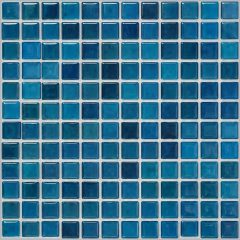
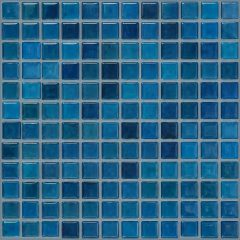
Murizelia mur3d : couleurs étalonnées sur les photos d'ambiance (rouge bordeaux plus vif)
Saturation et teinte des carreaux recalées sur les ambiances de la fiche produit,
joints des mosaïques fondus comme dans les ambiances, reflet gris du mur atténué
sur les teintes foncées.

Claude-Session: https://claude.ai/code/session_014gnWwVVzDsEiqBpqiFtKfB

Changed region(s): [[0.0, 0.0, 1.0, 1.0]]

diff --git a/murizelia-mur3d/theme/assets/mm-mur-3d.js b/murizelia-mur3d/theme/assets/mm-mur-3d.js
@@ -5,8 +5,8 @@
   que le client n'ouvre pas le visualiseur.
 */
 
-const TUILES = {"minera-carrelage-adhesif-effet-marbre-blanc-anthracite-30x30-cm":{"f":"marbre","m":[30.0,30.0],"p":[30.0,30.0],"r":0,"c":"#eae9e9"},"minera-carrelage-adhesif-effet-marbre-blanc-dore-30x30-cm":{"f":"marbre","m":[30.0,30.0],"p":[30.0,30.0],"r":0,"c":"#bcb7ad"},"minera-carrelage-adhesif-effet-marbre-bleu-dore-30x30-cm":{"f":"marbre","m":[30.0,30.0],"p":[30.0,30.0],"r":0,"c":"#a1b0b8"},"minera-carrelage-adhesif-effet-marbre-graphite-dore-30x30-cm":{"f":"marbre","m":[30.0,30.0],"p":[30.0,30.0],"r":0,"c":"#7d6f5c"},"minera-carrelage-adhesif-effet-marbre-gris-dore-30x30-cm":{"f":"marbre","m":[30.0,30.0],"p":[30.0,30.0],"r":0,"c":"#b1b1b6"},"minera-carrelage-adhesif-effet-marbre-noir-dore-30x30-cm":{"f":"marbre","m":[30.0,30.0],"p":[30.0,30.0],"r":0,"c":"#18140c"},"minera-carrelage-adhesif-effet-marbre-rose-dore-30x30-cm":{"f":"marbre","m":[30.0,30.0],"p":[30.0,30.0],"r":0,"c":"#f1d0ce"},"minera-carrelage-adhesif-effet-marbre-vert-dore-30x30-cm":{"f":"marbre","m":[30.0,30.0],"p":[30.0,30.0],"r":0,"c":"#b3c1ab"},"mosaela-carrelage-adhesif-3d-beige-sable-25-4x25-4-cm":{"f":"mosaique","m":[25.58,25.58],"p":[25.4,25.4],"r":1,"c":"#d9b77b"},"mosaela-carrelage-adhesif-3d-bleu-azur-25-4x25-4-cm":{"f":"mosaique","m":[25.75,25.75],"p":[25.4,25.4],"r":1,"c":"#3e748f"},"mosaela-carrelage-adhesif-3d-damier-bleu-saphir-25-4x25-4-cm":{"f":"damier","m":[25.51,25.51],"p":[25.4,25.4],"r":1,"c":"#8b98aa"},"mosaela-carrelage-adhesif-3d-damier-bordeaux-25-4x25-4-cm":{"f":"damier","m":[25.52,25.52],"p":[25.4,25.4],"r":1,"c":"#b1908e"},"mosaela-carrelage-adhesif-3d-damier-vert-sapin-25-4x25-4-cm":{"f":"damier","m":[25.47,25.47],"p":[25.4,25.4],"r":1,"c":"#97a197"},"mosaela-carrelage-adhesif-3d-orange-terracotta-25-4x25-4-cm":{"f":"mosaique","m":[25.57,25.57],"p":[25.4,25.4],"r":1,"c":"#c08975"},"mosaela-carrelage-adhesif-3d-rouge-bordeaux-25-4x25-4-cm":{"f":"mosaique","m":[25.5,25.5],"p":[25.4,25.4],"r":1,"c":"#63494a"},"mosaela-carrelage-adhesif-3d-vert-bouteille-25-4x25-4-cm":{"f":"mosaique","m":[25.58,25.58],"p":[25.4,25.4],"r":1,"c":"#3c523e"},"mosaela-carrelage-adhesif-3d-vert-olive-25-4x25-4-cm":{"f":"mosaique","m":[25.63,25.63],"p":[25.4,25.4],"r":1,"c":"#636c3a"},"stria-carrelage-adhesif-3d-blanc-brillant-25x25-cm":{"f":"baguettes","m":[25.12,25.12],"p":[25.0,25.0],"r":1,"c":"#e5e5e5"},"stria-carrelage-adhesif-3d-bleu-indigo-30x30-cm":{"f":"baguettes","m":[30.44,30.44],"p":[30.0,30.0],"r":1,"c":"#5c6e7d"},"stria-carrelage-adhesif-3d-rose-poudre-30x30-cm":{"f":"baguettes","m":[30.38,30.38],"p":[30.0,30.0],"r":1,"c":"#e4d1cc"},"stria-carrelage-adhesif-3d-rouge-bordeaux-30x30-cm":{"f":"baguettes","m":[30.28,30.28],"p":[30.0,30.0],"r":1,"c":"#723932"},"stria-carrelage-adhesif-3d-vert-d-eau-25x25-cm":{"f":"baguettes","m":[25.24,25.24],"p":[25.0,25.0],"r":1,"c":"#afd7d1"},"stria-carrelage-adhesif-3d-vert-emeraude-30x30-cm":{"f":"baguettes","m":[30.32,30.32],"p":[30.0,30.0],"r":1,"c":"#3b7063"},"stria-carrelage-adhesif-3d-vert-grise-30x30-cm":{"f":"baguettes","m":[30.32,30.32],"p":[30.0,30.0],"r":1,"c":"#cccbc0"},"stria-carrelage-adhesif-3d-vieux-rose-25x25-cm":{"f":"baguettes","m":[25.09,25.09],"p":[25.0,25.0],"r":1,"c":"#daa7af"}};
-const VERSION = '202610211644';
+const TUILES = {"minera-carrelage-adhesif-effet-marbre-blanc-anthracite-30x30-cm":{"f":"marbre","m":[30.0,30.0],"p":[30.0,30.0],"r":0,"c":"#eae9e9"},"minera-carrelage-adhesif-effet-marbre-blanc-dore-30x30-cm":{"f":"marbre","m":[30.0,30.0],"p":[30.0,30.0],"r":0,"c":"#bcb7ad"},"minera-carrelage-adhesif-effet-marbre-bleu-dore-30x30-cm":{"f":"marbre","m":[30.0,30.0],"p":[30.0,30.0],"r":0,"c":"#a1b0b8"},"minera-carrelage-adhesif-effet-marbre-graphite-dore-30x30-cm":{"f":"marbre","m":[30.0,30.0],"p":[30.0,30.0],"r":0,"c":"#7d6f5c"},"minera-carrelage-adhesif-effet-marbre-gris-dore-30x30-cm":{"f":"marbre","m":[30.0,30.0],"p":[30.0,30.0],"r":0,"c":"#b1b1b6"},"minera-carrelage-adhesif-effet-marbre-noir-dore-30x30-cm":{"f":"marbre","m":[30.0,30.0],"p":[30.0,30.0],"r":0,"c":"#18140c"},"minera-carrelage-adhesif-effet-marbre-rose-dore-30x30-cm":{"f":"marbre","m":[30.0,30.0],"p":[30.0,30.0],"r":0,"c":"#f1d0ce"},"minera-carrelage-adhesif-effet-marbre-vert-dore-30x30-cm":{"f":"marbre","m":[30.0,30.0],"p":[30.0,30.0],"r":0,"c":"#b3c1ab"},"mosaela-carrelage-adhesif-3d-beige-sable-25-4x25-4-cm":{"f":"mosaique","m":[25.58,25.58],"p":[25.4,25.4],"r":1,"c":"#d9b77b"},"mosaela-carrelage-adhesif-3d-bleu-azur-25-4x25-4-cm":{"f":"mosaique","m":[25.75,25.75],"p":[25.4,25.4],"r":1,"c":"#2d6484"},"mosaela-carrelage-adhesif-3d-damier-bleu-saphir-25-4x25-4-cm":{"f":"damier","m":[25.51,25.51],"p":[25.4,25.4],"r":1,"c":"#8596aa"},"mosaela-carrelage-adhesif-3d-damier-bordeaux-25-4x25-4-cm":{"f":"damier","m":[25.52,25.52],"p":[25.4,25.4],"r":1,"c":"#b08b87"},"mosaela-carrelage-adhesif-3d-damier-vert-sapin-25-4x25-4-cm":{"f":"damier","m":[25.47,25.47],"p":[25.4,25.4],"r":1,"c":"#97a197"},"mosaela-carrelage-adhesif-3d-orange-terracotta-25-4x25-4-cm":{"f":"mosaique","m":[25.57,25.57],"p":[25.4,25.4],"r":1,"c":"#c08975"},"mosaela-carrelage-adhesif-3d-rouge-bordeaux-25-4x25-4-cm":{"f":"mosaique","m":[25.5,25.5],"p":[25.4,25.4],"r":1,"c":"#5a3230"},"mosaela-carrelage-adhesif-3d-vert-bouteille-25-4x25-4-cm":{"f":"mosaique","m":[25.58,25.58],"p":[25.4,25.4],"r":1,"c":"#3c523d"},"mosaela-carrelage-adhesif-3d-vert-olive-25-4x25-4-cm":{"f":"mosaique","m":[25.63,25.63],"p":[25.4,25.4],"r":1,"c":"#5e622e"},"stria-carrelage-adhesif-3d-blanc-brillant-25x25-cm":{"f":"baguettes","m":[25.12,25.12],"p":[25.0,25.0],"r":1,"c":"#e5e5e5"},"stria-carrelage-adhesif-3d-bleu-indigo-30x30-cm":{"f":"baguettes","m":[30.44,30.44],"p":[30.0,30.0],"r":1,"c":"#5c6e7d"},"stria-carrelage-adhesif-3d-rose-poudre-30x30-cm":{"f":"baguettes","m":[30.38,30.38],"p":[30.0,30.0],"r":1,"c":"#e4d1cc"},"stria-carrelage-adhesif-3d-rouge-bordeaux-30x30-cm":{"f":"baguettes","m":[30.28,30.28],"p":[30.0,30.0],"r":1,"c":"#723932"},"stria-carrelage-adhesif-3d-vert-d-eau-25x25-cm":{"f":"baguettes","m":[25.24,25.24],"p":[25.0,25.0],"r":1,"c":"#afd7d1"},"stria-carrelage-adhesif-3d-vert-emeraude-30x30-cm":{"f":"baguettes","m":[30.32,30.32],"p":[30.0,30.0],"r":1,"c":"#3b7063"},"stria-carrelage-adhesif-3d-vert-grise-30x30-cm":{"f":"baguettes","m":[30.32,30.32],"p":[30.0,30.0],"r":1,"c":"#cccbc0"},"stria-carrelage-adhesif-3d-vieux-rose-25x25-cm":{"f":"baguettes","m":[25.09,25.09],"p":[25.0,25.0],"r":1,"c":"#daa7af"}};
+const VERSION = '202610212325';
 
 // photo d'exemple : vraie cuisine (panorama Poly Haven CC0 recadré), mur du fond repéré à la main
 const DEMO = { quad: [[397, 352], [1566, 268], [1566, 1000], [397, 988]], largeur: 330 };
@@ -598,12 +598,15 @@ void main(){
       vec3 col = alb * il * uExpo * uCast * rel;
       // reflets : la pièce floutée, décalée par le relief, selon Fresnel
       float nv = max(dot(n, V), 0.0);
-      float F = 0.04 + 0.96 * pow(1.0 - nv, 5.0);
+      float F = 0.02 + 0.98 * pow(1.0 - nv, 5.0);
       vec3 Rf = reflect(-V, n), R0 = reflect(-V, uNw);
       vec2 dr = (Rf.xy - R0.xy) * 0.45;
       vec3 env = toLin(texture2D(uLow, clamp(vUv + dr, 0.0, 1.0)).rgb);
       float gl = uGloss * (1.0 - rg) * (1.0 - rg);
-      col = mix(col, env * 1.15, clamp(F * gl, 0.0, 0.6));
+      // seules les zones plus claires que le mur (fenêtre, lampe) se reflètent franchement : le reflet
+      // uniforme d'un mur gris voilerait les teintes foncées, ce que l'œil ne voit pas sur le vrai carreau
+      float hl = mix(0.3, 1.0, smoothstep(0.9, 1.8, lum(env) / max(lum(uRef), 0.004)));
+      col = mix(col, env * 1.15, clamp(F * gl * hl, 0.0, 0.3));
       vec3 H = normalize(uL + V);
       float sh = mix(700.0, 24.0, rg);
       float sp = pow(max(dot(n, H), 0.0), sh) * (sh + 8.0) / 60.0;

diff --git a/murizelia-mur3d/src/mm-mur-3d.js b/murizelia-mur3d/src/mm-mur-3d.js
@@ -598,12 +598,15 @@ void main(){
       vec3 col = alb * il * uExpo * uCast * rel;
       // reflets : la pièce floutée, décalée par le relief, selon Fresnel
       float nv = max(dot(n, V), 0.0);
-      float F = 0.04 + 0.96 * pow(1.0 - nv, 5.0);
+      float F = 0.02 + 0.98 * pow(1.0 - nv, 5.0);
       vec3 Rf = reflect(-V, n), R0 = reflect(-V, uNw);
       vec2 dr = (Rf.xy - R0.xy) * 0.45;
       vec3 env = toLin(texture2D(uLow, clamp(vUv + dr, 0.0, 1.0)).rgb);
       float gl = uGloss * (1.0 - rg) * (1.0 - rg);
-      col = mix(col, env * 1.15, clamp(F * gl, 0.0, 0.6));
+      // seules les zones plus claires que le mur (fenêtre, lampe) se reflètent franchement : le reflet
+      // uniforme d'un mur gris voilerait les teintes foncées, ce que l'œil ne voit pas sur le vrai carreau
+      float hl = mix(0.3, 1.0, smoothstep(0.9, 1.8, lum(env) / max(lum(uRef), 0.004)));
+      col = mix(col, env * 1.15, clamp(F * gl * hl, 0.0, 0.3));
       vec3 H = normalize(uL + V);
       float sh = mix(700.0, 24.0, rg);
       float sp = pow(max(dot(n, H), 0.0), sh) * (sh + 8.0) / 60.0;

diff --git a/murizelia-mur3d/tools/etalon.py b/murizelia-mur3d/tools/etalon.py
@@ -1,0 +1,104 @@
+"""Étalonnage des couleurs : les carreaux de la texture (photo plaque fond blanc) sont recalés sur la
+couleur des mêmes carreaux dans les photos d'ambiance de la fiche produit.
+python3 -I tools/etalon.py <racine> [--appliquer]  -> out/etalon.json (+ out/tex-etal/*.jpg)"""
+import json, os, sys
+import cv2, numpy as np
+BASE = sys.argv[1]; APPL = '--appliquer' in sys.argv
+meta = json.load(open(os.path.join(BASE, 'out/meta.json')))
+os.makedirs(os.path.join(BASE, 'out/tex-etal'), exist_ok=True)
+
+def hsv(img):  # OpenCV : H 0..180, S, V 0..255
+    return cv2.cvtColor(img, cv2.COLOR_BGR2HSV).astype(np.float32)
+
+def dh(a, b):  # écart de teinte circulaire (0..90 en unités OpenCV)
+    d = np.abs(a - b) % 180
+    return np.minimum(d, 180 - d)
+
+def teinte_moy(h, w=None):
+    ang = h / 180 * 2 * np.pi
+    c, s = np.cos(ang), np.sin(ang)
+    if w is not None: c, s = c * w, s * w
+    return (np.arctan2(s.sum(), c.sum()) / (2 * np.pi) * 180) % 180
+
+rapport = {}
+for e in meta:
+    h = e['handle']
+    tex = cv2.imread(os.path.join(BASE, 'out/tex', h + '.jpg'))
+    T = hsv(tex)
+    carreau = T[..., 1] > 50          # pixels colorés du carreau (joints et blancs exclus)
+    info = {'famille': e['famille'], 'part_couleur': round(float(carreau.mean()), 3)}
+    if e['famille'] == 'marbre' or carreau.mean() < 0.15:
+        info['action'] = 'aucune (carreau peu coloré ou marbre)'
+        rapport[h] = info
+        continue
+    ht = teinte_moy(T[..., 0][carreau], T[..., 1][carreau])
+    st, vt = float(np.median(T[..., 1][carreau])), float(np.median(T[..., 2][carreau]))
+    ambs = []
+    for i in (1, 2):
+        f = os.path.join(BASE, 'dl', h, '%d.webp' % i)
+        if not os.path.exists(f): continue
+        A = hsv(cv2.imread(f))
+        sel = (dh(A[..., 0], ht) < 10) & (A[..., 1] > st * 0.6) & (A[..., 2] > 20)
+        # le carrelage doit former une zone à part : si la sélection couvre presque toute l'image
+        # (lumière chaude, bois, décor de même teinte), la mesure ne dit rien du carreau
+        if sel.mean() < 0.06 or sel.mean() > 0.45: continue
+        Ab = hsv(cv2.GaussianBlur(cv2.imread(f), (0, 0), 8))
+        selb = (dh(Ab[..., 0], ht) < 10) & (Ab[..., 1] > st * 0.6) & (Ab[..., 2] > 20)
+        smoy = float(np.median(Ab[..., 1][selb])) if selb.mean() > 0.03 else 0.0
+        ambs.append((float(sel.mean()), teinte_moy(A[..., 0][sel], A[..., 1][sel]), float(np.median(A[..., 1][sel])), float(np.median(A[..., 2][sel])), smoy))
+    if not ambs:
+        info['action'] = 'aucune (carreau non retrouvé dans les ambiances)'
+        rapport[h] = info
+        continue
+    pa = sum(a[0] for a in ambs)
+    ha = teinte_moy(np.array([a[1] for a in ambs]), np.array([a[0] for a in ambs]))
+    sa = sum(a[0] * a[2] for a in ambs) / pa
+    va = sum(a[0] * a[3] for a in ambs) / pa
+    gs = float(np.clip(sa / max(st, 1), 1.0, 1.6))
+    gv = 1.0   # la luminosité vient de l'éclairage de la photo du client, on ne la touche pas
+    dteinte = float(np.clip(((ha - ht + 90) % 180) - 90, -3, 3))   # ±6° au plus (plantes, bois dans les ambiances)
+    if len(ambs) < 2 or max(float(dh(a[1], b[1])) for a in ambs for b in ambs) > 4:
+        dteinte = 0.0   # une seule ambiance, ou des ambiances en désaccord : on laisse la teinte
+    info.update({'texture': [round(ht * 2), round(st / 2.55), round(vt / 2.55)], 'ambiance': [round(ha * 2), round(sa / 2.55), round(va / 2.55)],
+                 'gain_saturation': round(gs, 2), 'gain_luminosite': round(gv, 2), 'decalage_teinte_deg': round(dteinte * 2, 1)})
+    if APPL and (gs > 1.02 or abs(dteinte) > 0.5 or e['famille'] == 'mosaique'):
+        # on n'agit que sur les pixels colorés, avec une transition douce vers les joints
+        w = np.clip((T[..., 1] - 30) / 40, 0, 1)
+        T2 = T.copy()
+        T2[..., 0] = (T[..., 0] + dteinte * w) % 180
+        T2[..., 1] = np.clip(T[..., 1] * (1 + (gs - 1) * w), 0, 255)
+        T2[..., 2] = np.clip(T[..., 2] * (1 + (gv - 1) * w), 0, 255)
+        if e['famille'] == 'mosaique':
+            # vue de loin, la couleur perçue est la moyenne carreaux + joints : les joints de la photo plaque
+            # (larges, gris clair) délavent le carreau. On les fond vers une teinte chaude plus sombre,
+            # comme dans les ambiances, jusqu'à retrouver la saturation moyenne des ambiances.
+            cible = sum(a[0] * a[4] for a in ambs) / pa
+            g = 1 - w
+            def essai(al):
+                T3 = T2.copy()
+                T3[..., 0] = np.where(g > 0.5, ha, T2[..., 0])   # joints peu saturés : la teinte n'y pèse presque pas
+                T3[..., 1] = T2[..., 1] * (1 - g * al) + g * al * min(sa, 255) * 0.45
+                T3[..., 2] = T2[..., 2] * (1 - g * al * 0.45)
+                b = hsv(cv2.GaussianBlur(cv2.cvtColor(T3.astype(np.uint8), cv2.COLOR_HSV2BGR), (0, 0), 24))
+                return T3, float(np.median(b[..., 1]))
+            al, T3 = 0.0, T2
+            s0 = essai(0.0)[1]
+            if s0 < cible:
+                lo, hi = 0.0, 0.5
+                for _ in range(12):
+                    mid = (lo + hi) / 2
+                    if essai(mid)[1] < cible: lo = mid
+                    else: hi = mid
+                al = hi
+                T3, s1 = essai(al)
+                info.update({'joints': round(al, 2), 'sat_moyenne': [round(s0 / 2.55), round(s1 / 2.55), round(cible / 2.55)]})
+            T2 = T3
+            if al == 0 and gs <= 1.02 and abs(dteinte) <= 0.5:
+                rapport[h] = info
+                continue
+        out = cv2.cvtColor(T2.astype(np.uint8), cv2.COLOR_HSV2BGR)
+        cv2.imwrite(os.path.join(BASE, 'out/tex-etal', h + '.jpg'), out, [cv2.IMWRITE_JPEG_QUALITY, 90])
+    rapport[h] = info
+json.dump(rapport, open(os.path.join(BASE, 'out/etalon.json'), 'w'), ensure_ascii=False, indent=1)
+for h, i in rapport.items():
+    print(f"{h[:52]:52s} {i.get('action', '')} {('tex ' + str(i['texture']) + ' amb ' + str(i['ambiance']) + ' sat x' + str(i['gain_saturation']) + ' lum x' + str(i['gain_luminosite']) + ' teinte ' + str(i['decalage_teinte_deg']) + (' joints ' + str(i['joints']) + ' satmoy ' + str(i['sat_moyenne']) if 'joints' in i else '')) if 'texture' in i else ''}")

diff --git a/murizelia-mur3d/tools/build.py b/murizelia-mur3d/tools/build.py
@@ -36,7 +36,9 @@ tuiles = {}
 for e in meta:
     h = e['handle']
     fam = e['famille']
-    alb = cv2.imread(os.path.join(TEX, h + '.jpg'))
+    # couleur étalonnée sur les photos d'ambiance quand elle existe (tools/etalon.py)
+    etal = os.path.join(BASE, 'out', 'tex-etal', h + '.jpg')
+    alb = cv2.imread(etal if os.path.exists(etal) else os.path.join(TEX, h + '.jpg'))
     nor = cv2.imread(os.path.join(TEX, h + '-n.jpg'))
     jpg(os.path.join(AS, 'mm-mur-%s.jpg' % h), alb, 86)
     jpg(os.path.join(AS, 'mm-mur-%s-n.jpg' % h), nor, 90)
